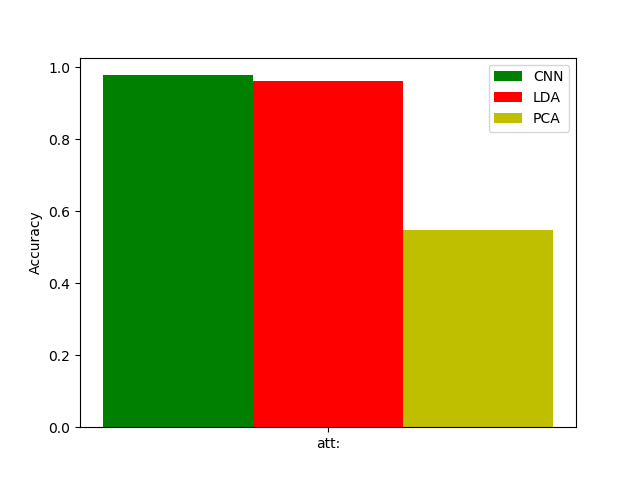
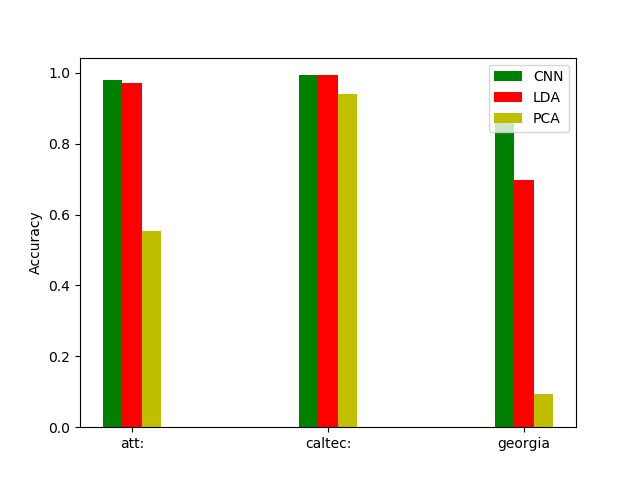
results for 3 datasets with faces

diff --git a/src/main.py b/src/main.py
@@ -13,9 +13,9 @@ classifiersDict = {
 
 dataBaseDict = {
     'att:': Db("att", 40), #loads normaly
-    #'caltec:': Db("croped_caltec", 19), # loads normaly
+    'caltec:': Db("croped_caltec", 19), # loads normaly
     #'essex:': Db("essex", 392), # loads normaly, note: on my 8Gb RAM essex causes MemoryError
-    #'georgia': Db("georgia", 50), #loads normaly
+    'georgia': Db("georgia", 50), #loads normaly
     #'jaffe': Db("jaffe", 10), # loads normaly
     #'mit': Db("mit-cbcl", 29), # loads normaly
     #'muct': Db("muct", 276), # loads normaly

diff --git a/doc/tables/Svm_fit_time_table.tex b/doc/tables/Svm_fit_time_table.tex
@@ -2,6 +2,10 @@
   \hline
     & CNN & LDA & PCA \\
   \hline
-  att: & 10.61 & 0.59 & 3.03 \\
+  att: & 9.49 & 0.59 & 3.05 \\
+  \hline
+  caltec: & 9.02 & 0.42 & 1.20 \\
+  \hline
+  georgia & 15.79 & 1.25 & 7.27 \\
   \hline
 \end{tabular}

diff --git a/doc/tables/Svm_acc_table.tex b/doc/tables/Svm_acc_table.tex
@@ -2,6 +2,10 @@
   \hline
     & CNN & LDA & PCA \\
   \hline
-  att: & 0.98 & 0.96 & 0.55 \\
+  att: & 0.98 & 0.97 & 0.55 \\
+  \hline
+  caltec: & 0.99 & 0.99 & 0.94 \\
+  \hline
+  georgia & 0.86 & 0.70 & 0.10 \\
   \hline
 \end{tabular}

diff --git a/doc/tables/Svm_pvalues.tex b/doc/tables/Svm_pvalues.tex
@@ -2,8 +2,8 @@
   \hline
     & values \\
   \hline
-  p-value & 3.678794e-01 \\
+  p-value & 1.299581e-24 \\
   \hline
-  value of statistic F & 2.00 \\
+  value of statistic F & 110.00 \\
   \hline
 \end{tabular}
